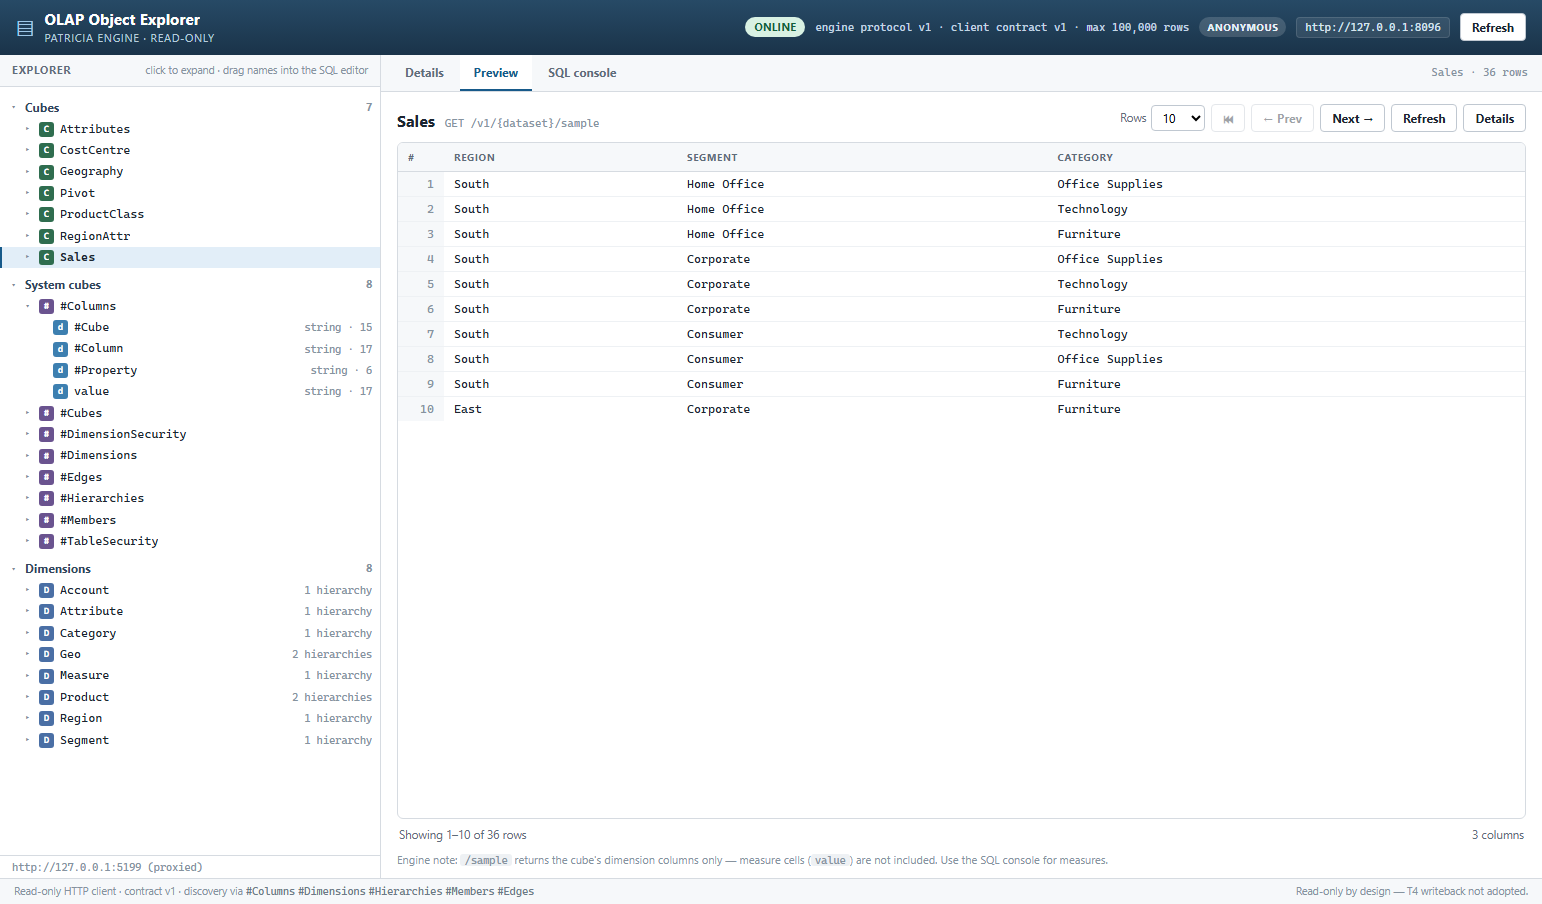
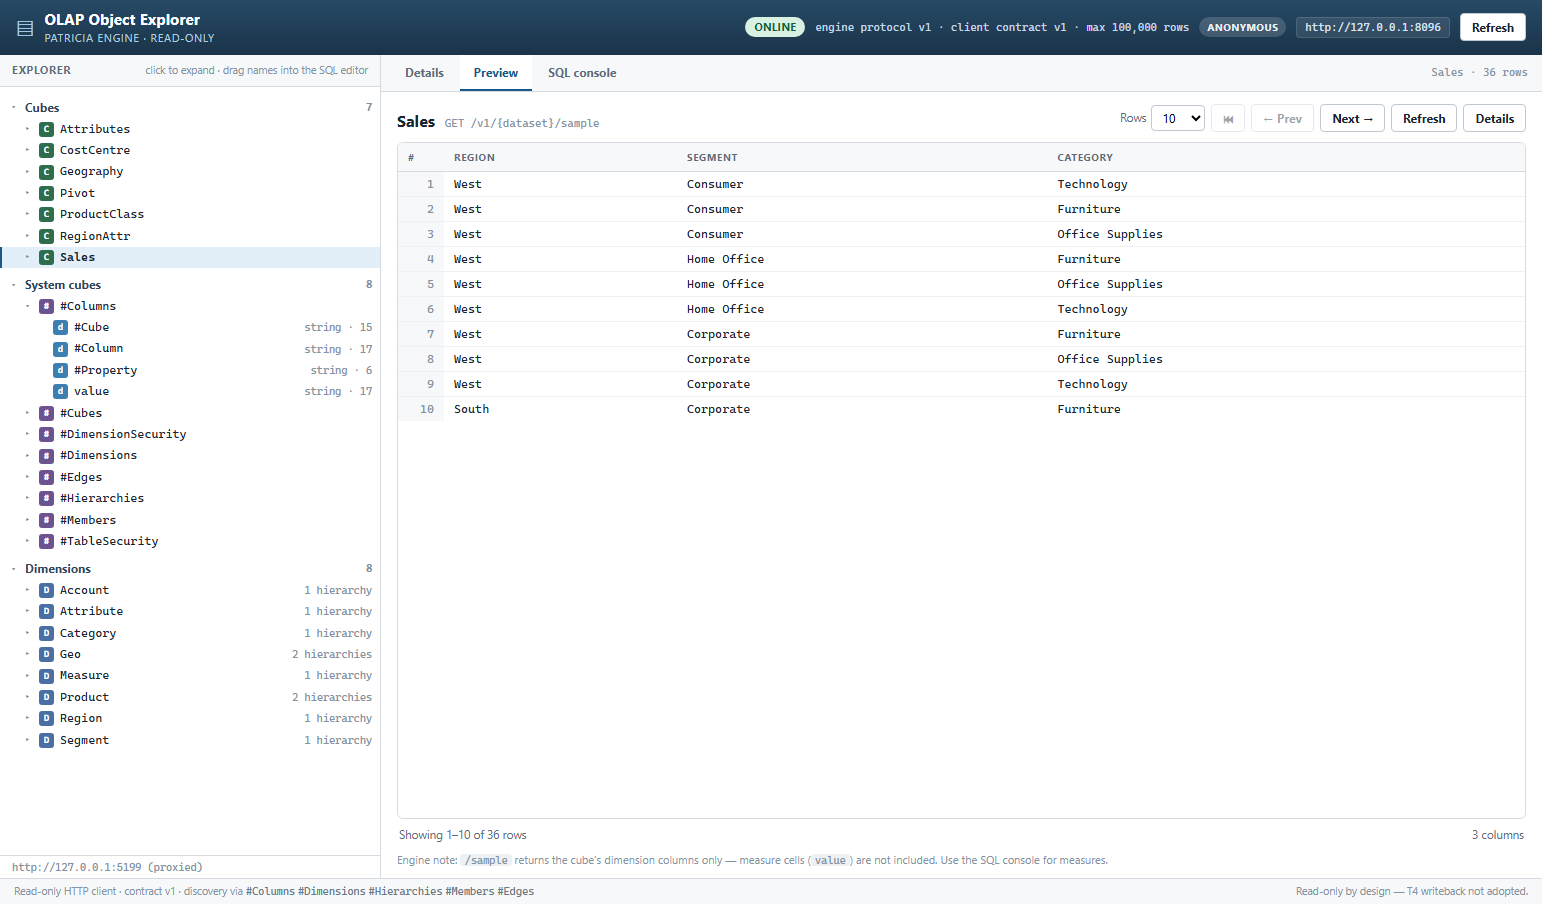
fix(sql): do not duplicate the value column for system cubes
System cubes report their trailing value cell as suggestedKind 'dimension'
(#Dimensions → #Dimension, #Property, value), so appending the value token
produced 'SELECT #Dimension, #Property, value, value FROM #Dimensions'. Exclude
the value column from the dimension list and add the token once; regression
check added (suite 59/59).

diff --git a/src/sqlTemplates.ts b/src/sqlTemplates.ts
@@ -27,9 +27,19 @@ export interface SqlTemplate {
   sql: string;
 }
 
-/** Dimensions a template can project: real dimension columns, not the measure axis. */
+/**
+ * Dimensions a template can project: real dimension columns, not the measure axis.
+ *
+ * The engine reports the trailing `value` cell of a **system cube** as
+ * `suggestedKind: "dimension"` (e.g. `#Dimensions` → `#Dimension`, `#Property`,
+ * `value`). `value` is the SQL measure token, so it is excluded here and added
+ * exactly once by the templates below; otherwise a system cube yields
+ * `SELECT …, value, value`.
+ */
 export function dimensionColumns(dataset: DatasetDescription): ColumnDescription[] {
-  return dataset.columns.filter((column) => column.suggestedKind === 'dimension');
+  return dataset.columns.filter(
+    (column) => column.suggestedKind === 'dimension' && column.name.toLowerCase() !== 'value',
+  );
 }
 
 export function isDimensionColumn(dataset: DatasetDescription, name: string): boolean {

diff --git a/README.md b/README.md
@@ -74,7 +74,7 @@ pin lives in this README and in one code comment (`src/types.ts`).
 | Tiers claimed | **T0–T3** — T2 met under contract DECISIONS **D1** / PROTOCOL §1.4 (browser `sessionStorage` token) |
 | T4 writeback | **not adopted by design** — the engine supports `POST /v1/{dataset}/write` and `POST /v1/save` (`capabilities.supportsWrite: true`); this product does not write |
 | Verified against | engine release `36afe88` (pinned by `12bfef1`), model **v2.2 on catalogue format v3**, contract v1 — 2026-11-10; the pinned wire text remains `d6b02e0` |
-| Evidence | `tsc --noEmit` exit 0; suite **58/58 checks, exit 0** (see [Verification](#verification)); live-model SQL-console smoke 4/4 |
+| Evidence | `tsc --noEmit` exit 0; suite **59/59 checks, exit 0** (see [Verification](#verification)); live-model SQL-console smoke 4/4 |
 
 The client validates `capabilities.protocolVersion` before any data request and shows a
 blocking **"Unsupported contract version"** state on a mismatch (PROTOCOL §0.3/§12): a v2
@@ -214,7 +214,7 @@ Environment overrides (all optional; workspace defaults shown):
 When no engine binary/reference database is available, phases 3–5 report a skip and phases
 1–2 still run, so a plain clone gets build + unit coverage.
 
-Five phases, **58 checks, all green** (2026-11-10; suite run against the archived v1 demo
+Five phases, **59 checks, all green** (2026-11-10; suite run against the archived v1 demo
 fixture with engine `33ae673`, live-model SQL smoke against model v2.2 / format v3). The
 fixture keeps the numeric fixtures stable; the SQL-console behaviour is model-independent and
 was also smoke-tested against the live `Orders` model (default statement, totals, by-dimension,
